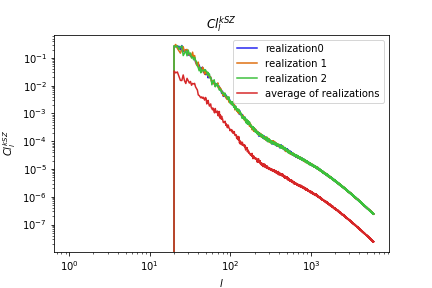
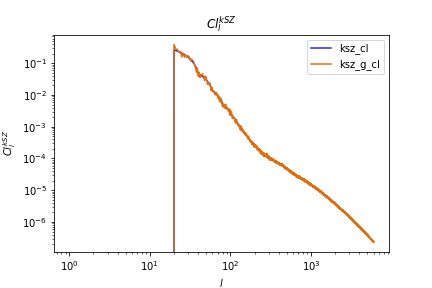
single ksz_gaussian realization

diff --git a/sims.py b/sims.py
@@ -1,0 +1,19 @@
+from orphics import io, maps, lensing, cosmology, stats
+from pixell import enmap, curvedsky
+import numpy as np
+import os, sys
+import healpy as hp
+import matplotlib.pylab as plt
+import symlens as s
+from symlens import utils
+import importlib
+from mpi4py import MPI
+import pandas as pd
+import tools
+
+# Simulate bias of lensing reconstruction from non-Gaussian kSZ
+
+# Use maps provided by websky
+map_path = 'maps/websky/'
+# Path of output data
+data_path = 'data/'

diff --git a/test/test.py b/test/test.py
@@ -1,0 +1,17 @@
+from mpi4py import MPI
+import numpy as np
+from orphics import stats
+# example: https://docs.scipy.org/doc/numpy/reference/generated/numpy.array_split.html
+comm = MPI.COMM_WORLD
+rank = comm.Get_rank()
+
+x = np.arange(7)
+list = np.array_split(x, 4)
+print(list)
+print("my rank is %d:" % rank)
+data = np.zeros(2)
+for i in list[rank]:
+    print(i)
+    data[i] = i
+print(data)
+# np.savetxt(f'rank{rank}.txt',data)
